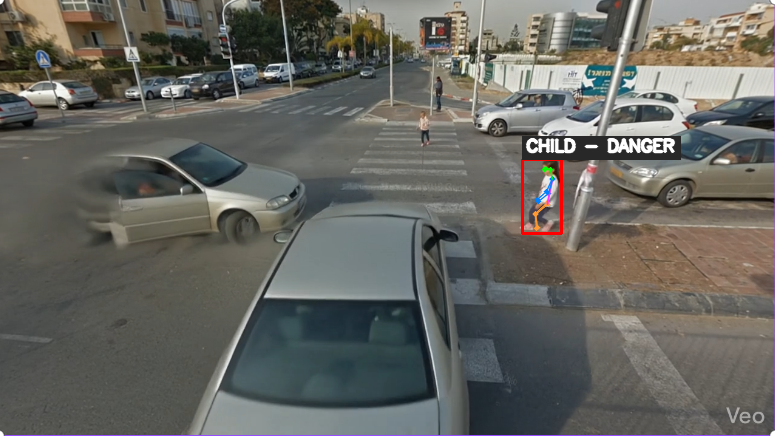
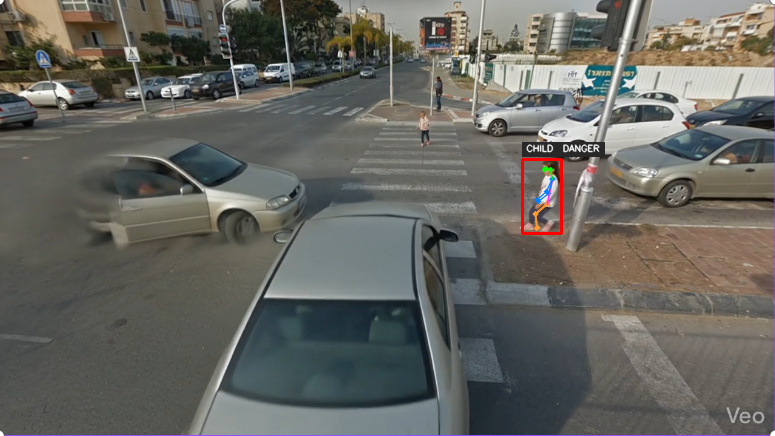
fix edge case min torso

Changed region(s): [[0.6503, 0.2982, 0.8981, 0.3876]]

diff --git a/smart-crosswalk/backend/ai/process_mocks_yolo.py b/smart-crosswalk/backend/ai/process_mocks_yolo.py
@@ -38,7 +38,7 @@ ADULT_SCORE_KPT_INDICES = (
 CHILD_HEIGHT_FRACTION = 0.20
 KEYPOINT_CONF_THRESHOLD = 0.3
 HAND_LIFT_DISTRACTED_THRESHOLD = 0.25
-MIN_TORSO_HEIGHT_PX = 1e-3
+MIN_TORSO_HEIGHT_PX = 20
 
 IMAGE_EXTS = (".jpg", ".jpeg", ".png", ".webp", ".bmp")
 
@@ -47,9 +47,9 @@ COLOR_DISTRACTED = (0, 255, 255)
 COLOR_SAFE = (0, 255, 0)
 COLOR_TEXT_BG = (40, 40, 40)
 
-LABEL_CHILD = "CHILD - DANGER"
-LABEL_DISTRACTED = "ADULT - DISTRACTED"
-LABEL_SAFE = "ADULT - SAFE"
+LABEL_CHILD = "CHILD  DANGER"
+LABEL_DISTRACTED = "ADULT  DISTRACTED"
+LABEL_SAFE = "ADULT  SAFE"
 
 
 def _to_numpy_xy_conf(kpts_data: Any, det_idx: int) -> tuple[np.ndarray | None, np.ndarray | None]:
@@ -145,8 +145,8 @@ def draw_labeled_box(
 ) -> None:
     cv2.rectangle(img, (x1, y1), (x2, y2), color_bgr, line_thickness)
     font = cv2.FONT_HERSHEY_SIMPLEX
-    font_scale = 0.55
-    thickness = 2
+    font_scale = 0.3
+    thickness = 1
     (tw, th), baseline = cv2.getTextSize(label, font, font_scale, thickness)
     ty = max(y1 - 4, th + 6)
     cv2.rectangle(
